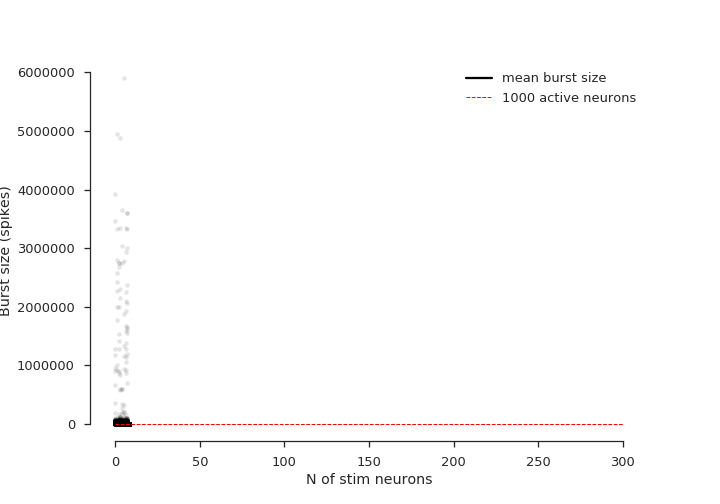
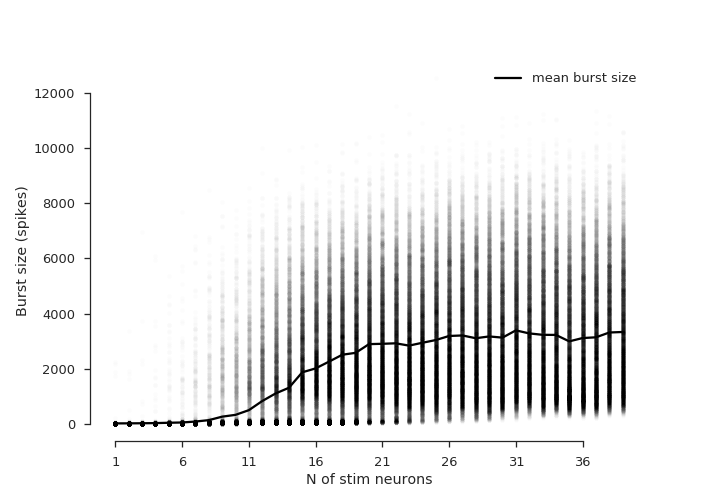
experiment2 script

diff --git a/Pburst_#p27ex2.py b/Pburst_#p27ex2.py
@@ -1,29 +1,24 @@
+# Script for the second sampling experiment
 import nest
 import nest.raster_plot
-import time
-from numpy import exp
-import matplotlib.pyplot as plt
 import numpy as np
-import seaborn as sns
-import scipy.stats as sps
-from itertools import product
-from pathlib import Path
-from func.brunel import fixed_brunel 
-from func.brunel import save_dict
-from func.brunel_meta import meta_brunel,disconnected_brunel, stim_brunel
-from func.helpers import return_sc
+import matplotlib.pyplot as plt
+#import seaborn as sns
+#sns.set_context('talk')
+from func.brunel_meta import *
+from func.helpers import *
 
 # Transition probability for N stim neurons 
 directory   = 'test'
 simulation = 'init'
 
-j = 0.85*1.5
+j = 0.82*1.5
 g = 4.0
 eta = 0.5
 d =  [3.5]
 sim_time = 110
-Tprob = np.zeros([10,5000])
-for ind,i in enumerate(np.arange(40,50,1)):
+Tprob = np.zeros([40,5000])
+for ind,i in enumerate(np.arange(1,40,1)):
     for tr in np.arange(5000):
         A = stim_brunel(directory= directory,
              simulation = simulation,
@@ -31,6 +26,7 @@ for ind,i in enumerate(np.arange(40,50,1)):
              eta = np.round(eta,decimals=3),
              d=d, # synaptic delay
              J=j, #synaptic strength NE =800, # fraction of inh neurons
+             NE = 800,
              NI= 200,
              N_rec = 1000,
              epsilon = 0.1,
@@ -44,6 +40,6 @@ for ind,i in enumerate(np.arange(40,50,1)):
         A.run()
         sc = return_sc('test/','init',(3.5,103.5),N=1000,bin_size = 1)
         Tprob[ind,tr] = np.sum(sc)
-    np.save('test/StimTransitionProb_40_50',Tprob)
+    np.save('test/StimTransitionProb_ex2_1_50',Tprob)
 
 

diff --git a/func/brunel_meta.py b/func/brunel_meta.py
@@ -592,7 +592,7 @@ class stim_brunel(meta_brunel):
                                      "to_file": True}])
             
         if init_voltage:
-            self.vinit = np.random.normal(10,3.5,[self.NE+self.NI]) #for FR = 0.1
+            self.vinit = np.random.normal(10,3.65,[self.NE+self.NI]) #for FR = 0.1
             nest.SetStatus(self.nodes_al, "V_m", self.vinit)
         #nest.SetStatus(self.ispikes,[{"label": "brunel-py-in",
         #                         "withtime": True,
